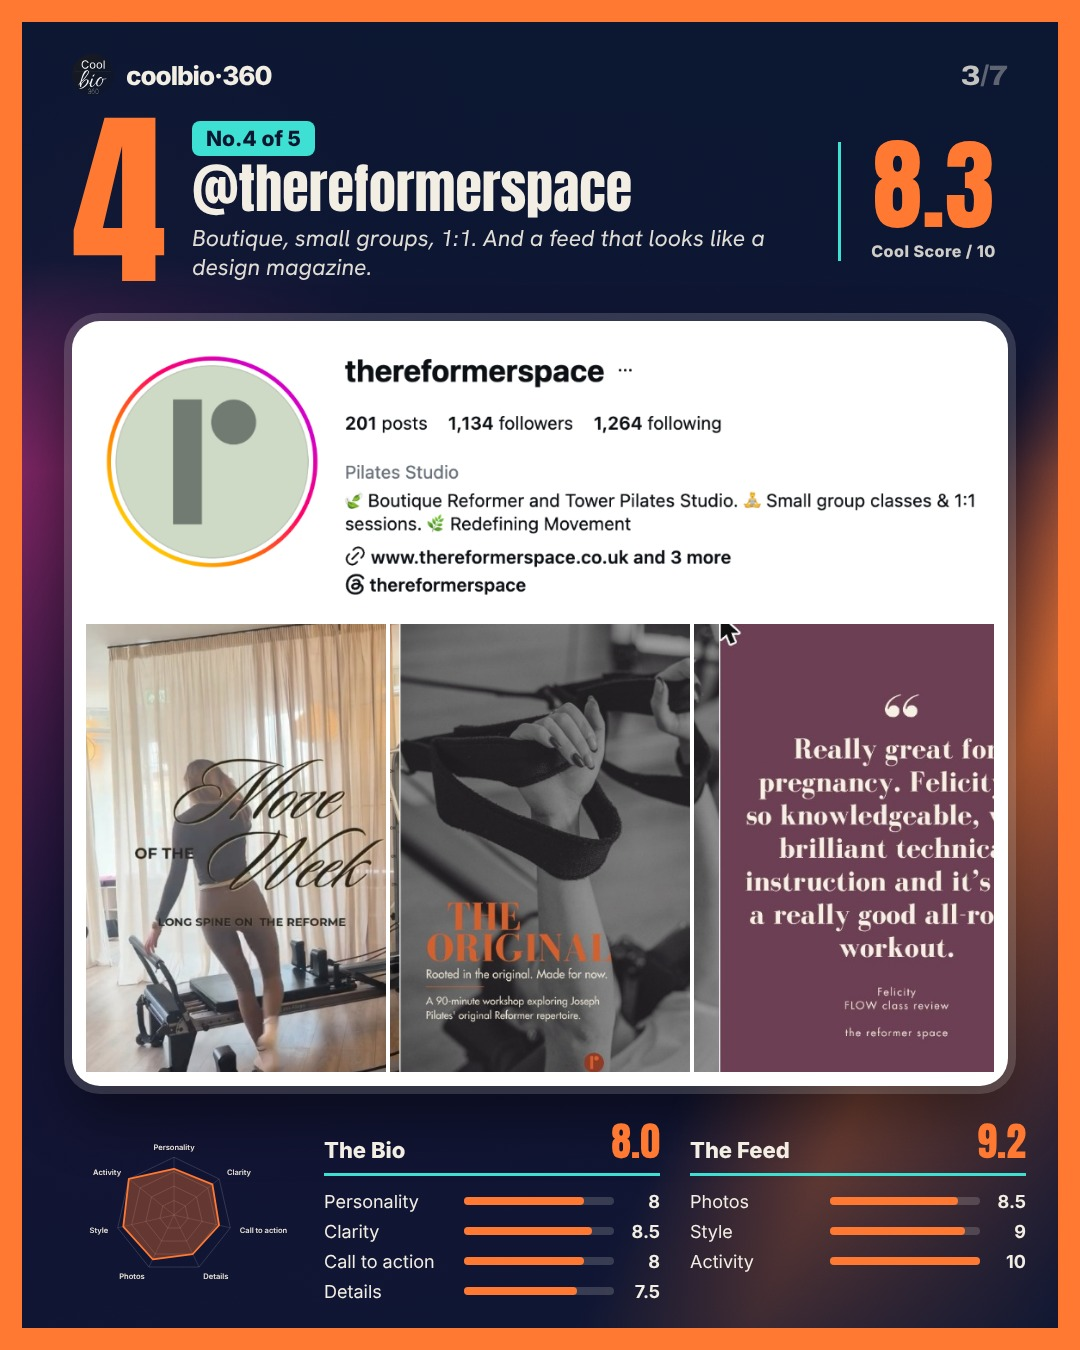
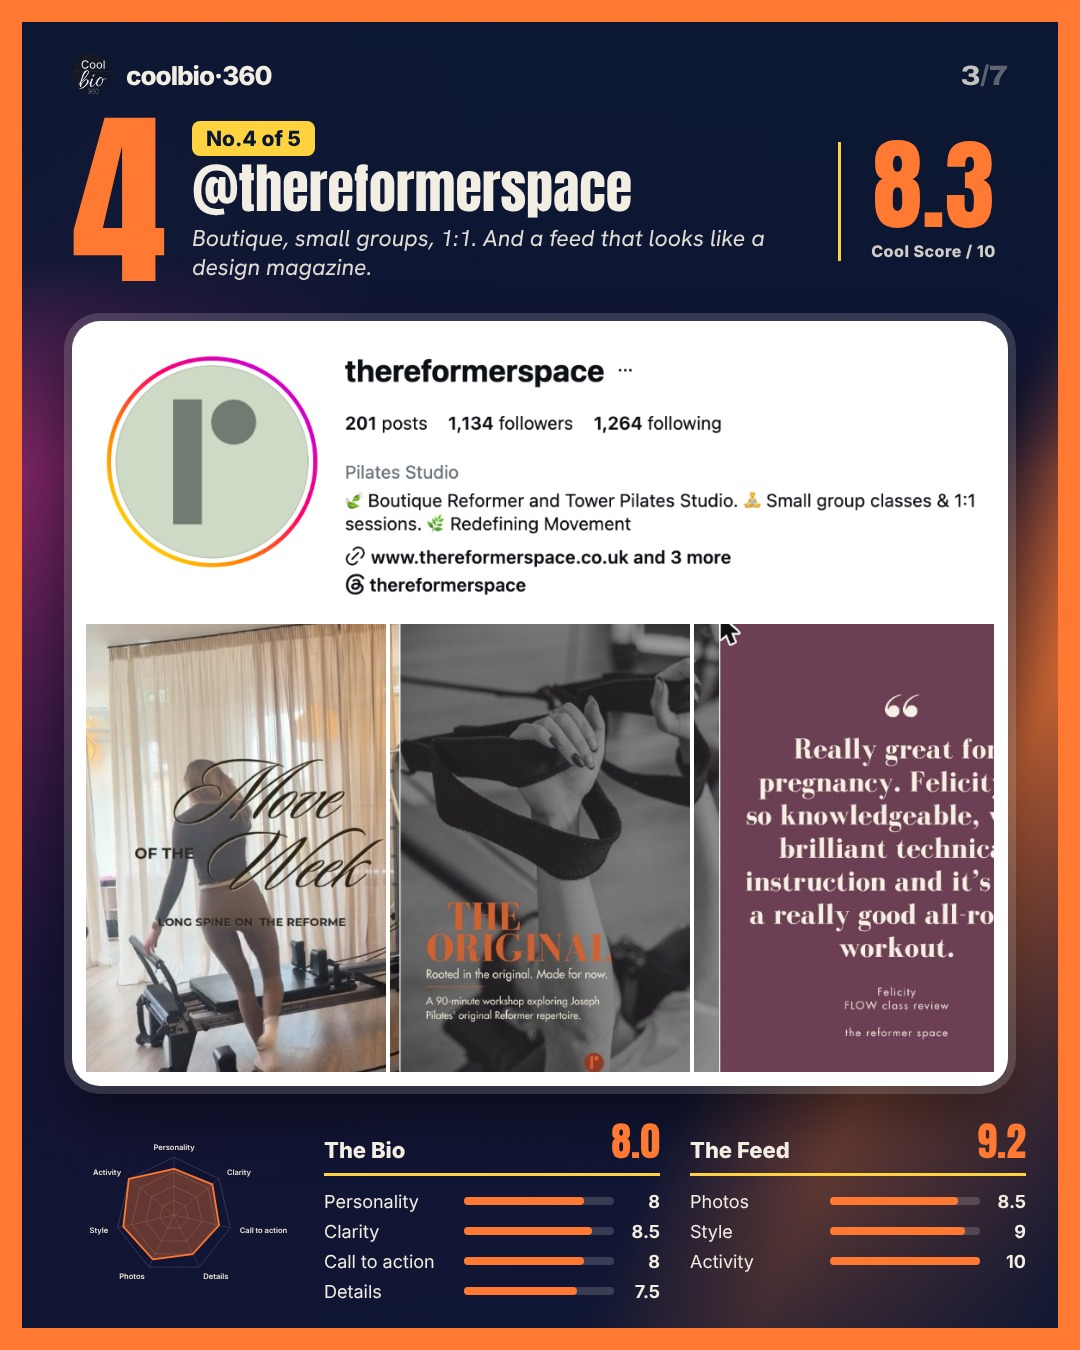
Accento oro
Claude-Session: https://claude.ai/code/session_01JL8RT6ZiLuziuRoxLPPpLq

diff --git a/tools/v2/gen_top8.py b/tools/v2/gen_top8.py
@@ -15,7 +15,7 @@ def page(b,acc):
     i=h.rfind('</div></body>'); return h[:i]+frame+h[i:]
 CARD=lambda: 'background:#fff;border-radius:30px;padding:14px;box-shadow:0 0 0 8px rgba(255,255,255,.18),0 30px 60px rgba(0,0,0,.45)'
 GLASS='background:rgba(255,255,255,.08);border:1.5px solid rgba(255,255,255,.22);border-radius:30px;backdrop-filter:blur(14px)'
-XC={'x':'#3DE0D2'}
+XC={'x':'#FFD23F'}
 def under(word,col):
     return f'<span style="position:relative;display:inline-block">{word}<svg viewBox="0 0 300 40" preserveAspectRatio="none" style="position:absolute;left:-2%;bottom:-0.06em;width:104%;height:0.24em;overflow:visible"><path d="M6 24 C 50 14, 110 20, 160 17 S 250 12, 294 19" fill="none" stroke="{col}" stroke-width="16" stroke-linecap="round"/><path d="M22 30 C 90 22, 170 27, 284 23" fill="none" stroke="{col}" stroke-width="8" stroke-linecap="round" opacity=".9"/></svg></span>'
 def cover(d):
@@ -109,7 +109,7 @@ async def main(path):
     d=json.load(open(path)); os.makedirs(OUT,exist_ok=True); P={p['rank']:p for p in d['people']}
     A=d['accent']; d['A2']=T.mix(A,'#5A1E10',.5)
     import colorsys; r,g,b_=[int(A[k:k+2],16)/255 for k in (1,3,5)]; hh,ll,ss=colorsys.rgb_to_hls(r,g,b_); rr,gg,bb=colorsys.hls_to_rgb(hh,.6,1.0); d['strong']='#%02x%02x%02x'%(int(rr*255),int(gg*255),int(bb*255))
-    d['hues']=[A,'#FF4D6D','#FFB45E','#9B2C6E']; d['x']=d.get('x2','#3DE0D2'); XC['x']=d['x']     # analoghi caldi: accento, corallo, ambra, prugna
+    d['hues']=[A,'#FF4D6D','#FFB45E','#9B2C6E']; d['x']=d.get('x2','#FFD23F'); XC['x']=d['x']     # analoghi caldi: accento, corallo, ambra, prugna
     tones=['d']*7
     from playwright.async_api import async_playwright
     async with async_playwright() as pw:
